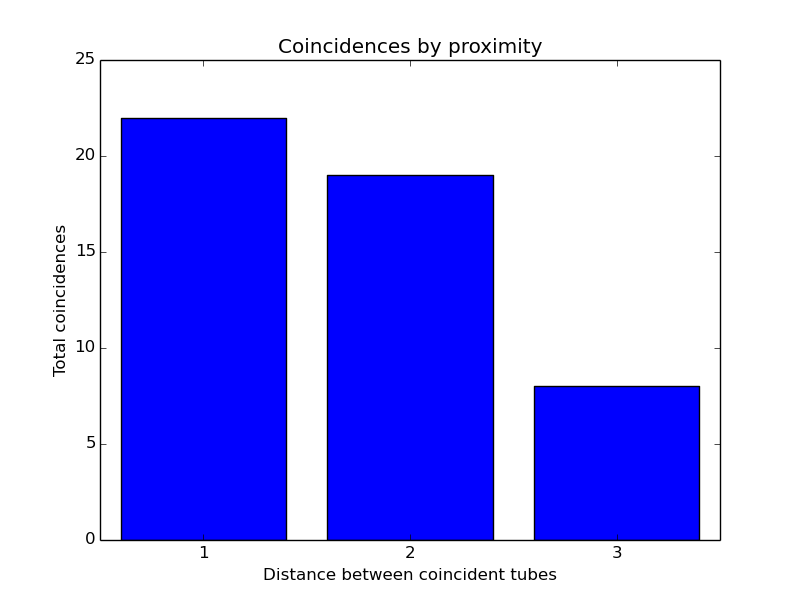
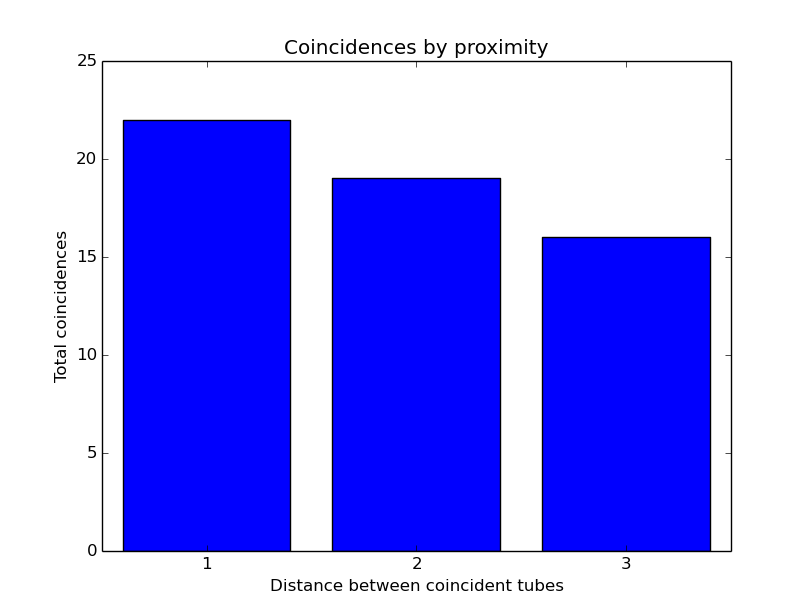
Fix FreqVsDistance graph The old graph should have doubled the last bar, because the geometry means nearby tubes had twice as many tubes as the single opposite tube.

diff --git a/graphParse.py b/graphParse.py
@@ -68,6 +68,9 @@ def graphEventsVsAlt():
     plt.show()
 
 def graphFreqVsDistance():
+    # We have to double the last distance measurement,
+    # because other two have twice as many possibilities (see geometry)
+    tubeDistances[2] *= 2;
     plt.bar(range(1,4), tubeDistances, align='center')
     plt.xticks(range(1,4), range(1,4))
     plt.xlabel('Distance between coincident tubes')
